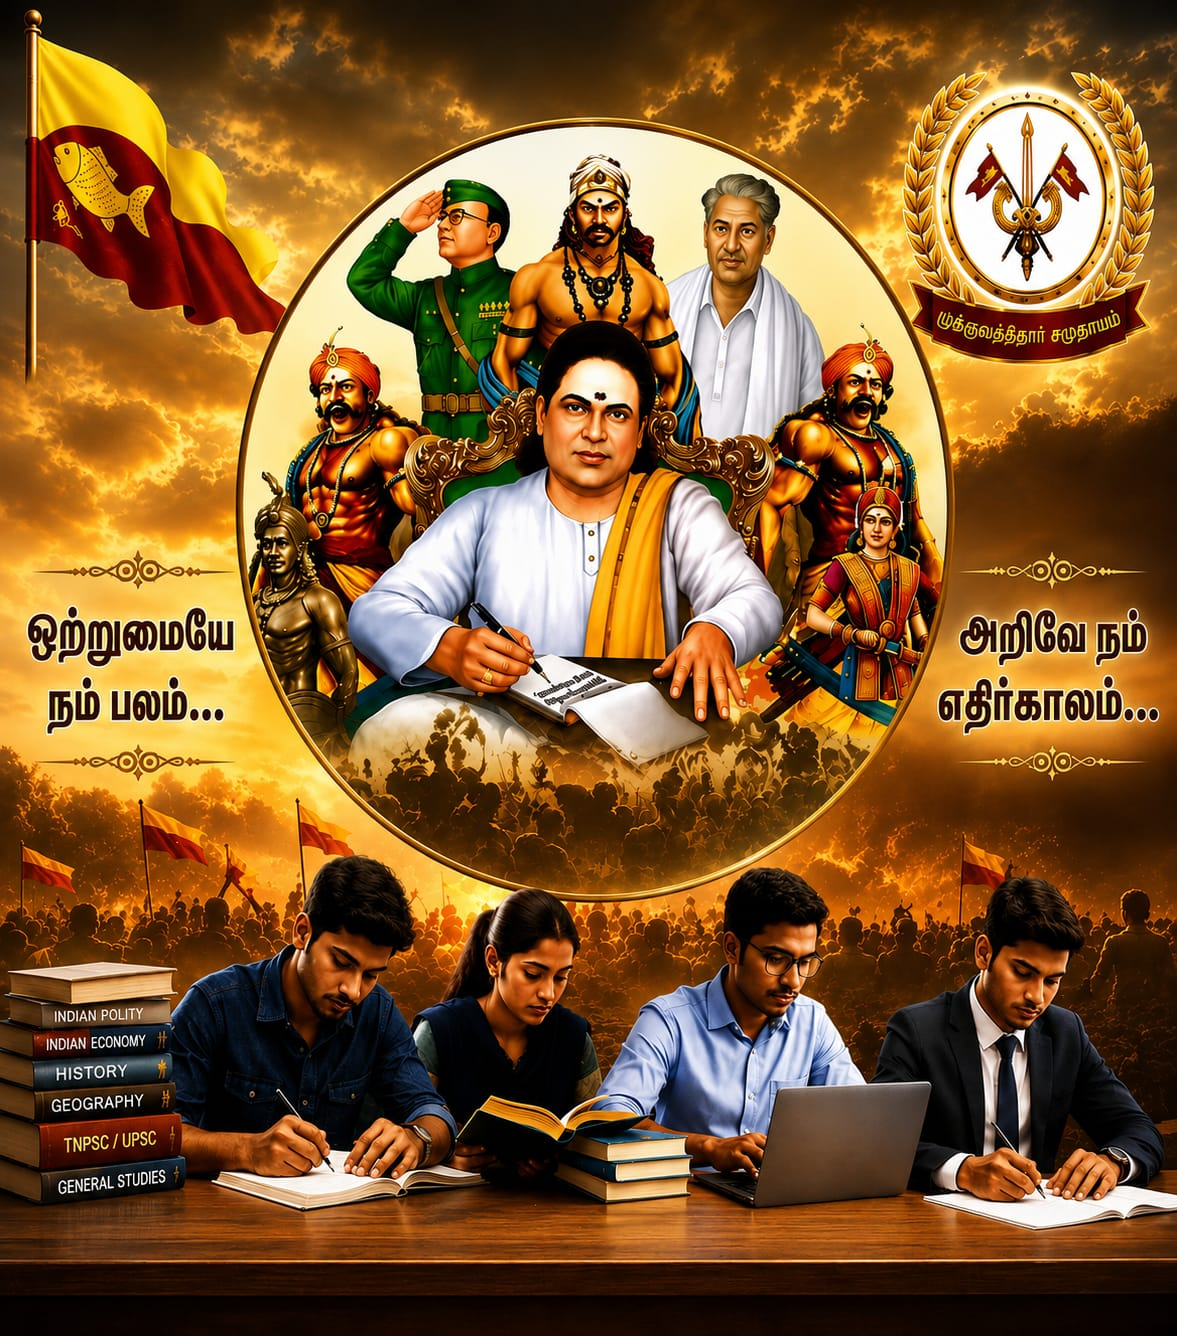
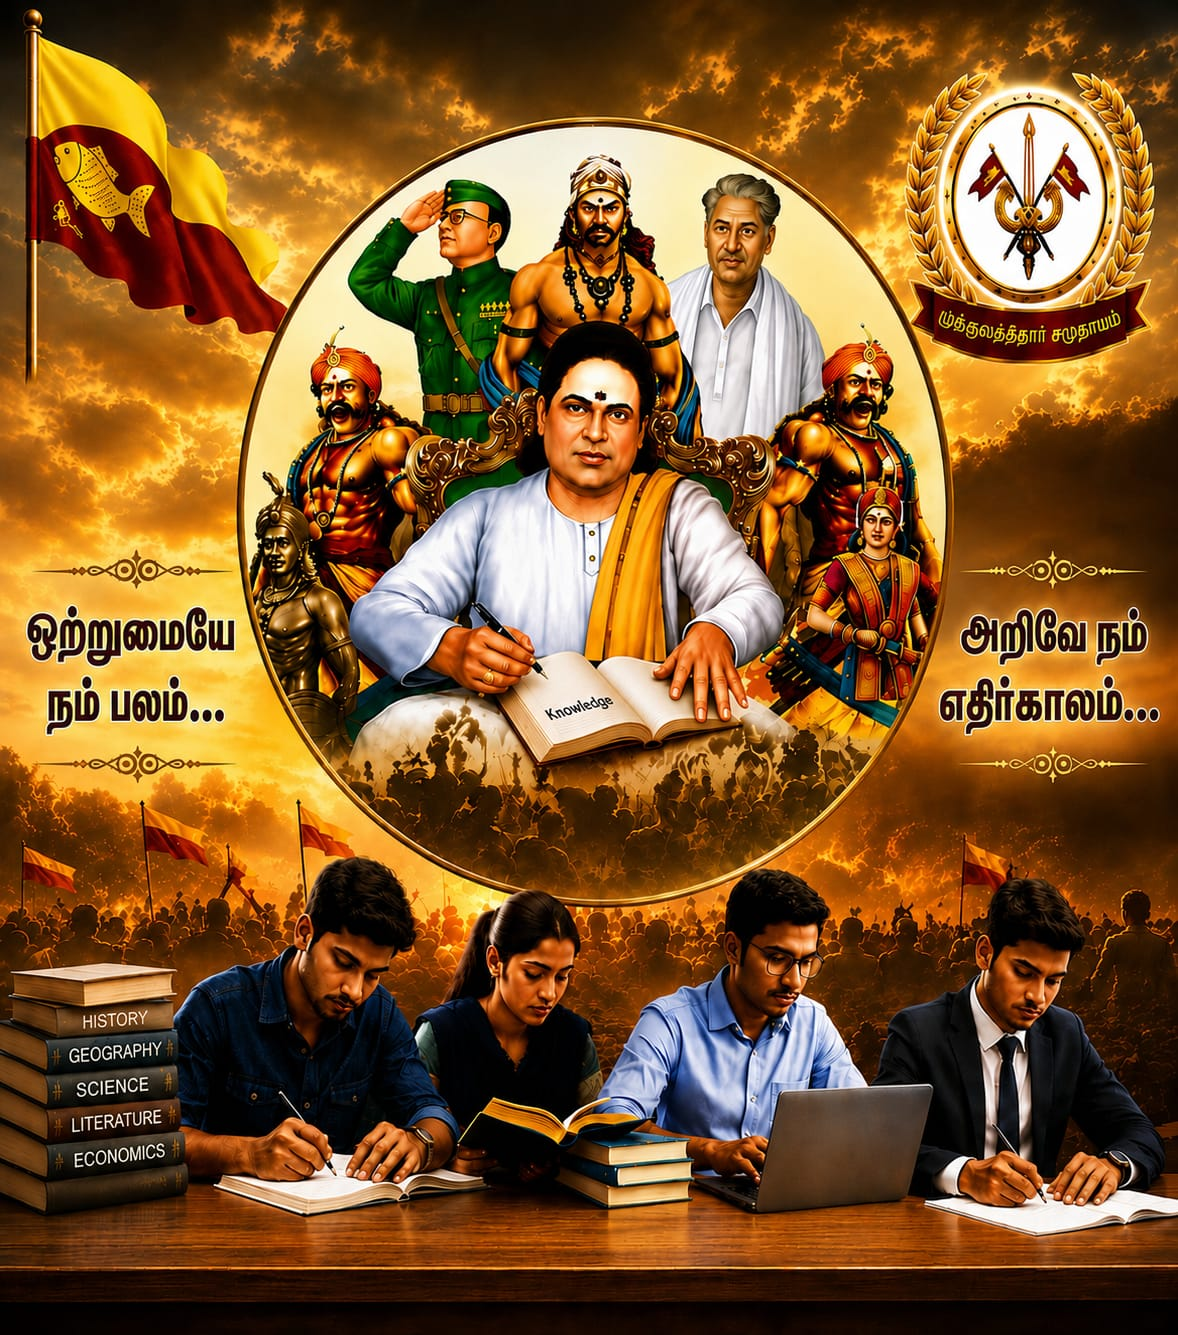
Remove hero text and update background image

diff --git a/src/pages/public/Home.jsx b/src/pages/public/Home.jsx
@@ -29,22 +29,6 @@ export default function Home() {
         <div className="absolute inset-0 bg-gradient-to-t from-navy-950/90 via-navy-950/30 to-transparent sm:bg-gradient-to-r sm:from-navy-950/85 sm:via-navy-950/40 sm:to-transparent" />
         <div className="relative mx-auto w-full max-w-7xl px-4 pb-12 pt-10 sm:px-6 sm:py-0 lg:px-8">
           <div className="max-w-xl">
-            <p className="section-eyebrow text-gold-400">A matrimony platform for the Mukkulathor community</p>
-            <h1 className="mt-3 font-display text-4xl font-semibold leading-tight text-white sm:text-5xl">
-              Find your life partner within a community you already trust
-            </h1>
-            <p className="mt-4 text-base text-slate-200 sm:text-lg">
-              Every profile is verified by a referee and approved by an administrator before it's visible —
-              so every introduction starts from a place of trust, not guesswork.
-            </p>
-            <div className="mt-8 flex flex-wrap gap-3">
-              <Link to="/register" className="btn-gold px-6 py-3 text-base">
-                Start Registration <ArrowRight size={17} />
-              </Link>
-              <a href="#why-matrimony" className="btn-outline border-white/30 bg-white/5 px-6 py-3 text-base text-white hover:bg-white/10">
-                How it works
-              </a>
-            </div>
           </div>
         </div>
       </section>
